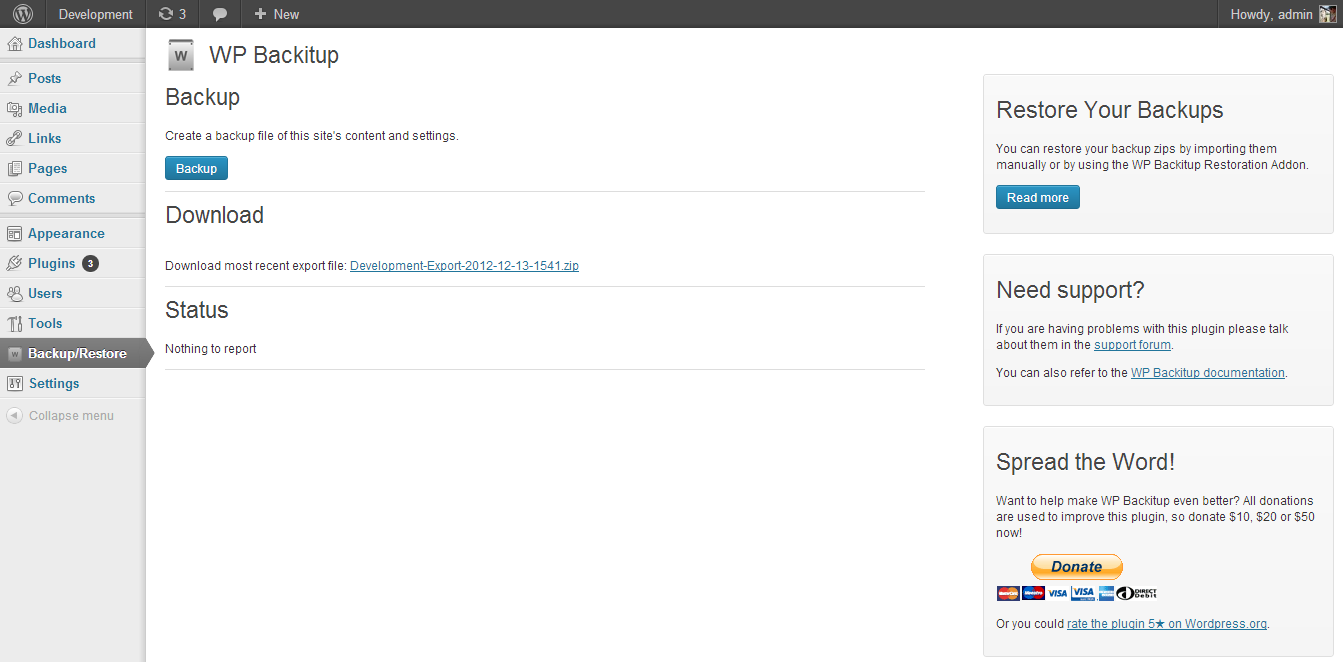
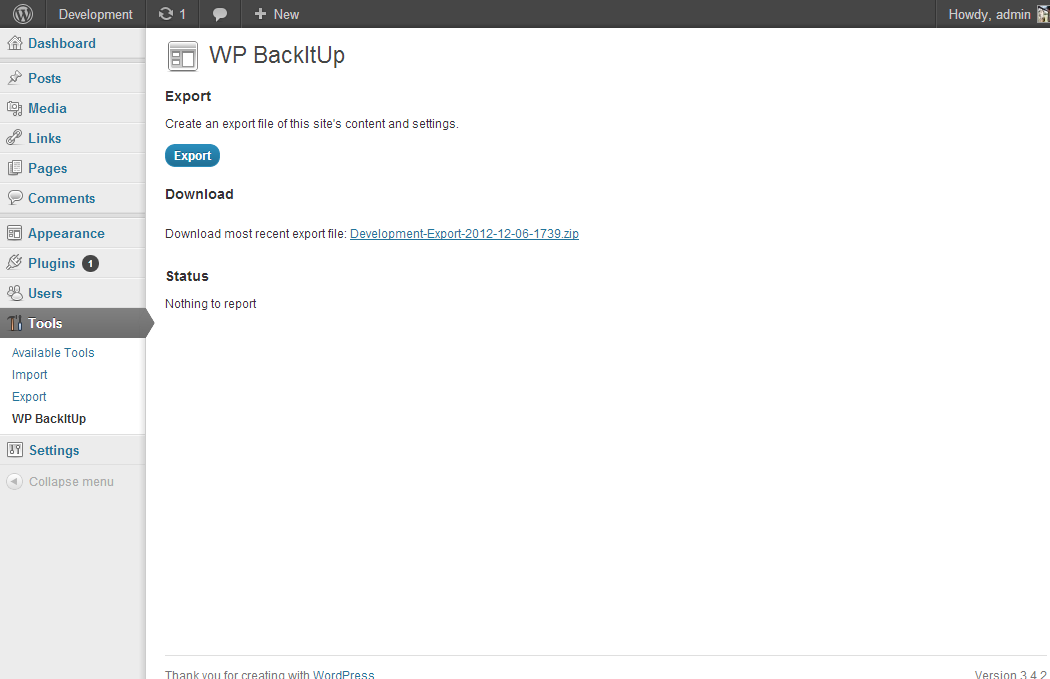
Updated trunk
git-svn-id: https://plugins.svn.wordpress.org/wp-backitup/trunk@645801 b8457f37-d9ea-0310-8a92-e5e31aec5664

diff --git a/css/wp-backitup.css b/css/wp-backitup.css
@@ -2,24 +2,6 @@
 
 .error {	color: #ff0000;}
 
-p {
-	line-height: 1.4em;
-}
-
-#content {
-	float: left;
-	width: 65%;
-}
-
-#sidebar {
-	float: right;
-	width: 30%;
-}
-
-.widget {
-	padding: 1em;
-}
-
 input {padding: 0;}
 
 h3 {
@@ -39,14 +21,19 @@ iframe {
 	width: 0;
 }
 
-.wp-backitup-section {
-	border-bottom: 1px solid #ddd;
-	clear:both;
-}
+.wp-backitup-section {clear:both;}
 
 #backup-button, #restore-form {
 	float: left;
 	margin: 0 5px 5px 0;
+}
+
+#backup-button a {
+	display: block;
+	padding: 3px 8px;
+	-webkit-border-radius: 10px;
+	-moz-border-radius: 10px;
+	border-radius: 10px;
 }
 
 .status-icon {
@@ -57,6 +44,8 @@ iframe {
 }
 
 .status-icon img {margin-top: 3px;}
+
+#wp-backitup-restore .status-icon img {margin-top: 7px;}
 
 #restore_form {margin-right: 5px;}
 

diff --git a/includes/functions.php b/includes/functions.php
@@ -15,13 +15,13 @@ if(!function_exists('recursive_copy')) {
 			if ($dh = opendir($dir) ) {
 				while(($file = readdir($dh)) !== false) { //While there are files in the directory
 					if ( !in_array($file, $ignore) && substr($file, 0, 1) != '.') { //Check the file is not in the ignore array
-						if (!is_dir( $dir.$file ) ) {
-								//Copy files to destination directory
-								$fsrc = fopen($dir .$file,'r');
-								$fdest = fopen($target_path .$file,'w+');
-								$len = stream_copy_to_stream($fsrc,$fdest);
-								fclose($fsrc);
-								fclose($fdest);
+						if (!is_dir( $dir.$file ) ) { //If $file is a file
+							//Copy files to destination directory
+							$fsrc = fopen($dir .$file,'r');
+							$fdest = fopen($target_path .$file,'w+');
+							$len = stream_copy_to_stream($fsrc,$fdest);
+							fclose($fsrc);
+							fclose($fdest); 
 						} else { //If $file is a directory
 							$destdir = $target_path .$file; //Modify the destination dir
 							if(!is_dir($destdir)) { //Create the destdir if it doesn't exist
@@ -107,6 +107,37 @@ if(!function_exists('recursive_delete')){
 			}
 			@rmdir($dir);	
 			closedir($dh);
+		}
+	return true;
+	}
+}
+
+//defube db_import function
+if(!function_exists('db_import')) {
+	function db_import($restoration_dir_path, $import_siteurl, $current_siteurl, $table_prefix, $import_table_prefix, $dbc) {
+		global $wpdb;
+		$sql_files = glob($restoration_dir_path . "/*.sql");
+		foreach($sql_files as $sql_file) {
+			$templine = ''; // Temporary variable, used to store current query
+			$lines = file($sql_file); // Read in entire file
+			foreach ($lines as $line) { // Loop through each line
+				if (substr($line, 0, 2) == '--' || $line == '') continue; // Skip it if it's a comment
+				$templine .= $line; // Add this line to the current segment
+				if (substr(trim($line), -1, 1) == ';') { // If it has a semicolon at the end, it's the end of the query
+					//replace imported site url with current site url
+					if( strstr( trim($templine), trim($import_siteurl) ) == TRUE ) //If import site url is found
+					$templine = str_replace( trim($import_siteurl), trim($current_siteurl), $templine ); // Replace import site url with current site url
+					//if the table prefixes are different, replace the imported site prefixes with the current prefixes
+					if ($table_prefix != $import_table_prefix) {
+						if( strstr( trim($templine), trim($import_table_prefix) ) == TRUE ) //If import table prefix is found
+						$templine = str_replace( trim($import_table_prefix), trim($table_prefix), $templine ); // Replace import site table prefix with current site table prefix
+					}
+					// Perform the query
+					if( mysqli_query($dbc, $templine) === FALSE) 
+						print('Error performing query \'<strong>' . $templine . '\': ' . mysql_error() . '<br /><br />');
+					$templine = ''; // Reset temp variable to empty
+				}
+			}
 		}
 	return true;
 	}

diff --git a/wp-backitup.php b/wp-backitup.php
@@ -1,9 +1,9 @@
 <?php 
 /**
- * Plugin Name: WP Backitup
+ * Plugin Name: WP BackItUp
  * Plugin URI: http://www.wpbackitup.com
  * Description: Backup your content, settings, themes, plugins and media in just a few simple clicks.
- * Version: 1.0.7
+ * Version: 1.0.6
  * Author: John Peden
  * Author URI: http://www.johncpeden.com
  * License: GPLv2 or later
@@ -11,7 +11,7 @@
  */
 
 /*
-	Copyright 2012-current  John Peden Ltd ( email : support@wpbackitup.com )
+	Copyright 2012-current  John C. Peden  ( email : mail@johncpeden.com )
 */
 
 //define constants
@@ -20,9 +20,15 @@ define("WPBACKITUP_PLUGIN_PATH", WP_PLUGIN_DIR."/wp-backitup/");
 define("WPBACKITUP_DIRNAME", "wp-backitup");
 define("BACKUP_PATH", WPBACKITUP_PLUGIN_PATH .'backups/');
 
+//add plugin options
+function wpbackitup_options_init() {
+	register_setting ('wpbackitup_options', 'wpbackitup', 'wpbackitup_options_validate');
+}
+add_action('admin_init', 'wpbackitup_options_init' );
+
 //load admin menu
 function wpbackitup_admin_menus() {
-	$wpbackituppage = add_menu_page( __( 'WP Backitup', 'wpBackitup' ), __( 'Backup/Restore', 'wpBackitup' ), 'manage_options', 'wp-backitup', 'wpbackitup_admin', plugin_dir_url(__FILE__ ) .'images/icon.png', 77);
+	$wpbackituppage = add_submenu_page( 'tools.php', 'WP BackItUp', 'WP BackItUp', 'manage_options', 'wp-backitup', 'wpbackitup_admin' );
 	add_action('admin_print_scripts-'.$wpbackituppage, 'wpbackitup_javascript');
 	add_action('admin_print_styles-' .$wpbackituppage, 'wpbackitup_stylesheet' );
 }
@@ -31,7 +37,6 @@ add_action('admin_menu', 'wpbackitup_admin_menus');
 //enqueue javascript
 function wpbackitup_javascript() {
 	wp_enqueue_script('wpbackitup-javascript', WPBACKITUP_PLUGIN_URL.'/js/wp-backitup.js');
-	//this needs moved to addon dir (as above)
 	wp_enqueue_script('ajaxfileupload', WPBACKITUP_PLUGIN_URL.'/js/ajaxfileupload.js');
 }
 
@@ -68,10 +73,3 @@ function wpbackitup_logreader() {
 	die();
 }
 add_action('wp_ajax_wpbackitup_logreader', 'wpbackitup_logreader');
-
-//load addons
-if(is_dir(WPBACKITUP_PLUGIN_PATH . "addons")){
-	foreach(glob(WPBACKITUP_PLUGIN_PATH . "addons/*/") as $addon) {
-		include_once $addon .'index.php';
-	}
-}

diff --git a/includes/backup.php b/includes/backup.php
@@ -1,5 +1,5 @@
 <?php
-//limite process to 5 minutes
+// 5 minutes per image should be PLENTY
 @set_time_limit(900);
 
 //Define variables
@@ -31,7 +31,7 @@ if(!is_writeable(BACKUP_PATH)) {
 //Backup content to project dir
 fwrite($fh, '<li>Backing up your files...');
 //Backup with copy
-if(recursive_copy($wp_content_path, $backup_project_path, $ignore = array( 'cgi-bin','.','..','._',$backup_project_dirname,'backupbuddy_backups','*.zip' ) ) ) {
+if(recursive_copy($wp_content_path, $backup_project_path, $ignore = array( 'cgi-bin','.','..','._',$backup_project_dirname ) ) ) {
 	fwrite($fh, 'Done!</li>');
 } else {
 	fwrite($fh, '</li><li class="error">Unable to backup your files. Please try again.</li></ul>');
@@ -70,7 +70,7 @@ if(!recursive_delete($backup_project_path)) {
 }
 
 //close log file
-fwrite($fh, '<li>Backup file created successfully. You can download your backup file using the link above.</li>');
+fwrite($fh, '<li>Export file created successfully. You can download your export file using the link above.</li>');
 fwrite($fh, '</ul>');
 fclose($fh);
 
